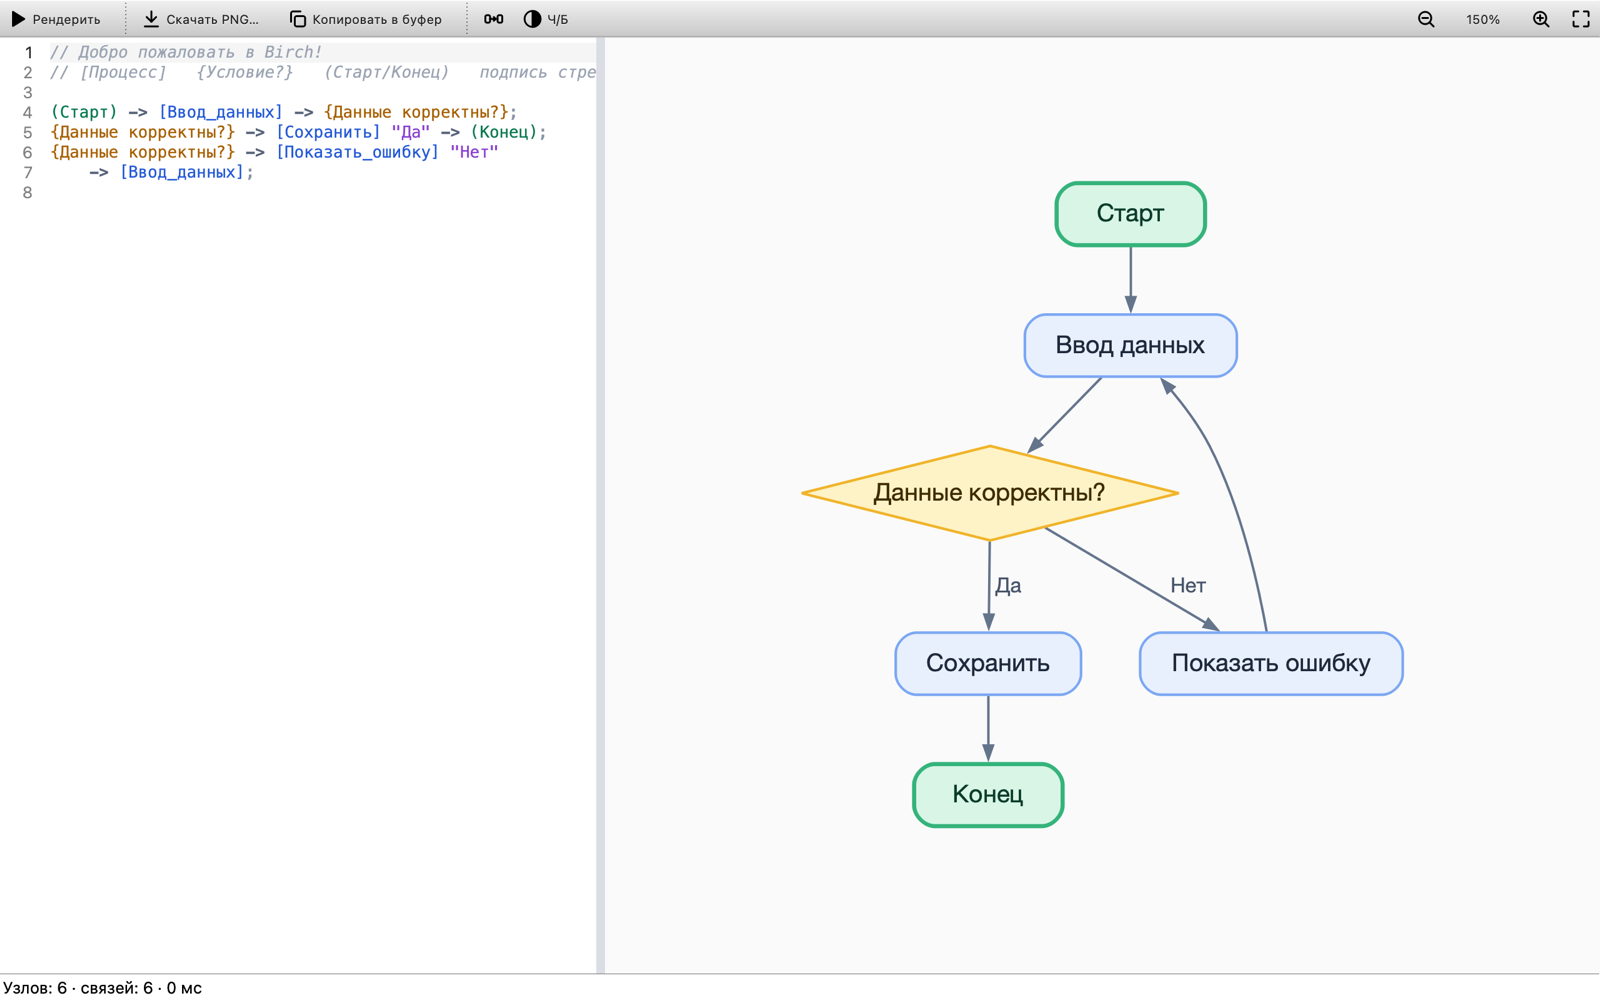
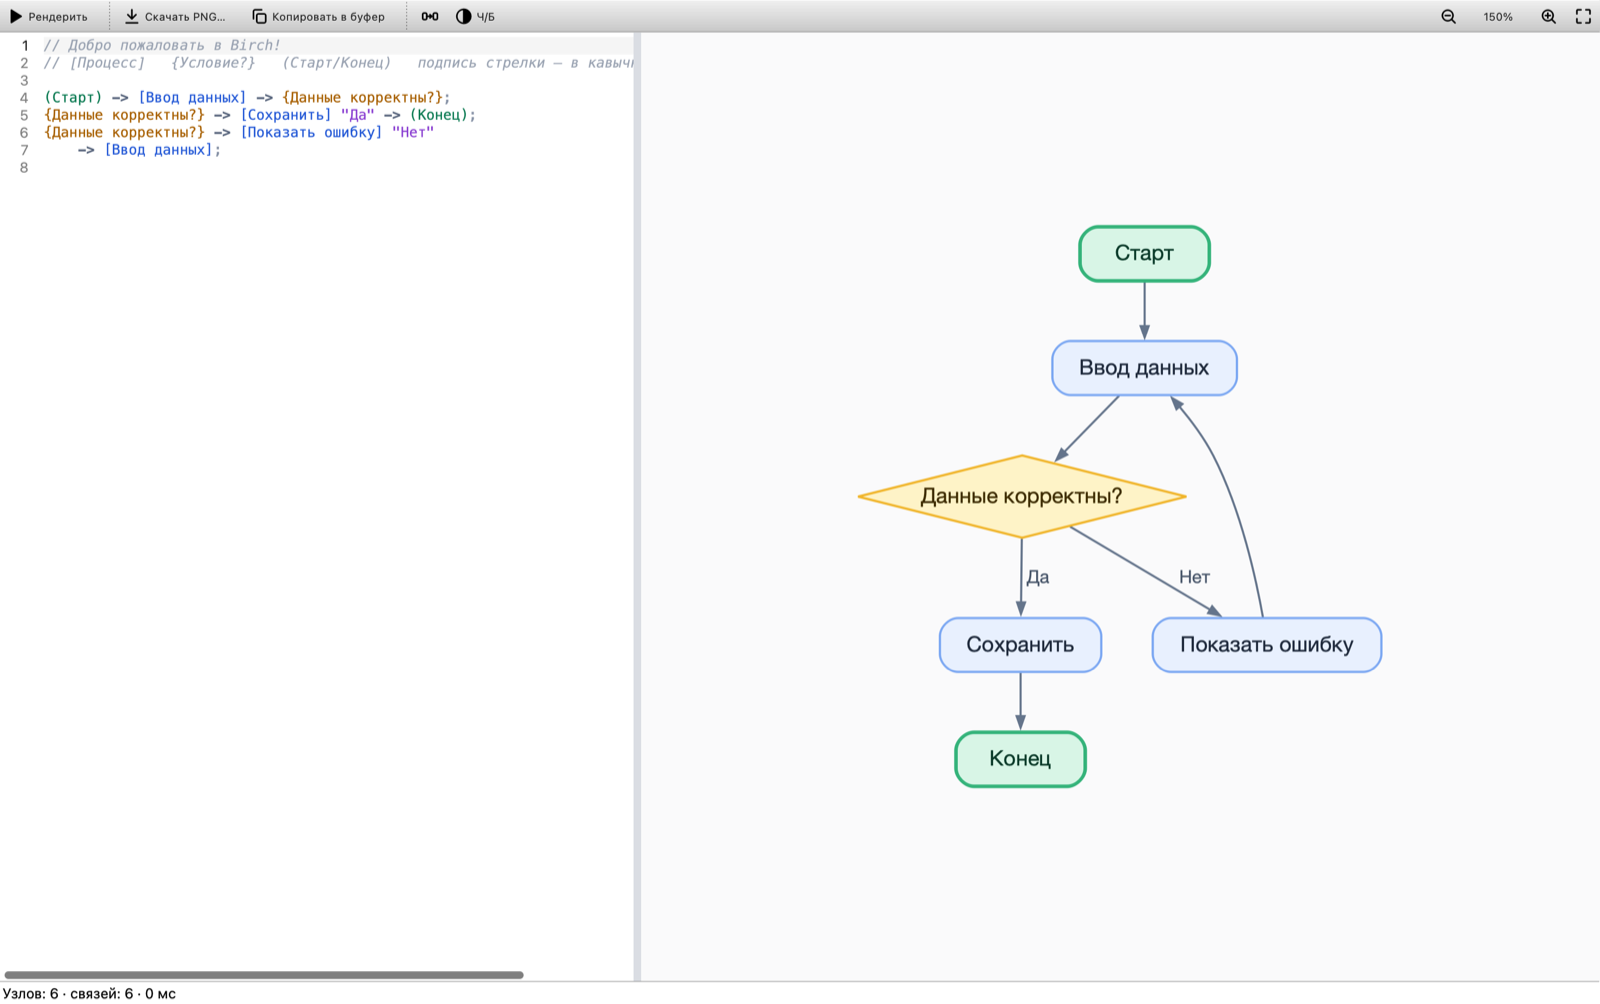
Скриншоты README с новым синтаксисом; скрытый ключ --monochrome

Changed region(s): [[0.0, 0.0, 1.0, 1.0], [0.5, 0.155, 0.7812, 0.837], [0.6875, 0.558, 0.875, 0.713]]

diff --git a/src/main.cpp b/src/main.cpp
@@ -68,6 +68,10 @@ int main(int argc, char* argv[]) {
                                    QStringLiteral("name"));
     themeOption.setFlags(QCommandLineOption::HiddenFromHelp);
     cli.addOption(themeOption);
+    QCommandLineOption monochromeOption(QStringLiteral("monochrome"),
+                                        QStringLiteral("Чёрно-белая схема на этот запуск."));
+    monochromeOption.setFlags(QCommandLineOption::HiddenFromHelp);
+    cli.addOption(monochromeOption);
     cli.process(app);
 
     birch::MainWindow window;
@@ -78,6 +82,7 @@ int main(int argc, char* argv[]) {
         std::fprintf(stderr, "unknown theme: %s\n", qPrintable(cli.value(themeOption)));
         return 3;
     }
+    if (cli.isSet(monochromeOption)) window.setMonochrome(true);
 
     const QString screenshot = cli.value(screenshotOption);
     if (!screenshot.isEmpty()) {

diff --git a/src/ui/MainWindow.h b/src/ui/MainWindow.h
@@ -35,6 +35,8 @@ public:
     void setSessionSaving(bool enabled) { sessionSaving_ = enabled; }
     // Тема на этот запуск: "system", "light" или "dark" (смоук-тесты, --theme).
     bool setThemeByName(const QString& name);
+    // Чёрно-белая схема на этот запуск (снимки для README, --monochrome).
+    void setMonochrome(bool on);
     // Область текста редактора в координатах окна (смоук-тесты проверяют её цвет).
     QRect editorViewportRect() const;
 

diff --git a/src/ui/MainWindow.cpp b/src/ui/MainWindow.cpp
@@ -770,6 +770,8 @@ bool MainWindow::setThemeByName(const QString& name) {
     return true;
 }
 
+void MainWindow::setMonochrome(bool on) { monochromeAct_->setChecked(on); }
+
 QRect MainWindow::editorViewportRect() const {
     const QWidget* vp = editor_->viewport();
     return QRect(vp->mapTo(this, QPoint(0, 0)), vp->size());
